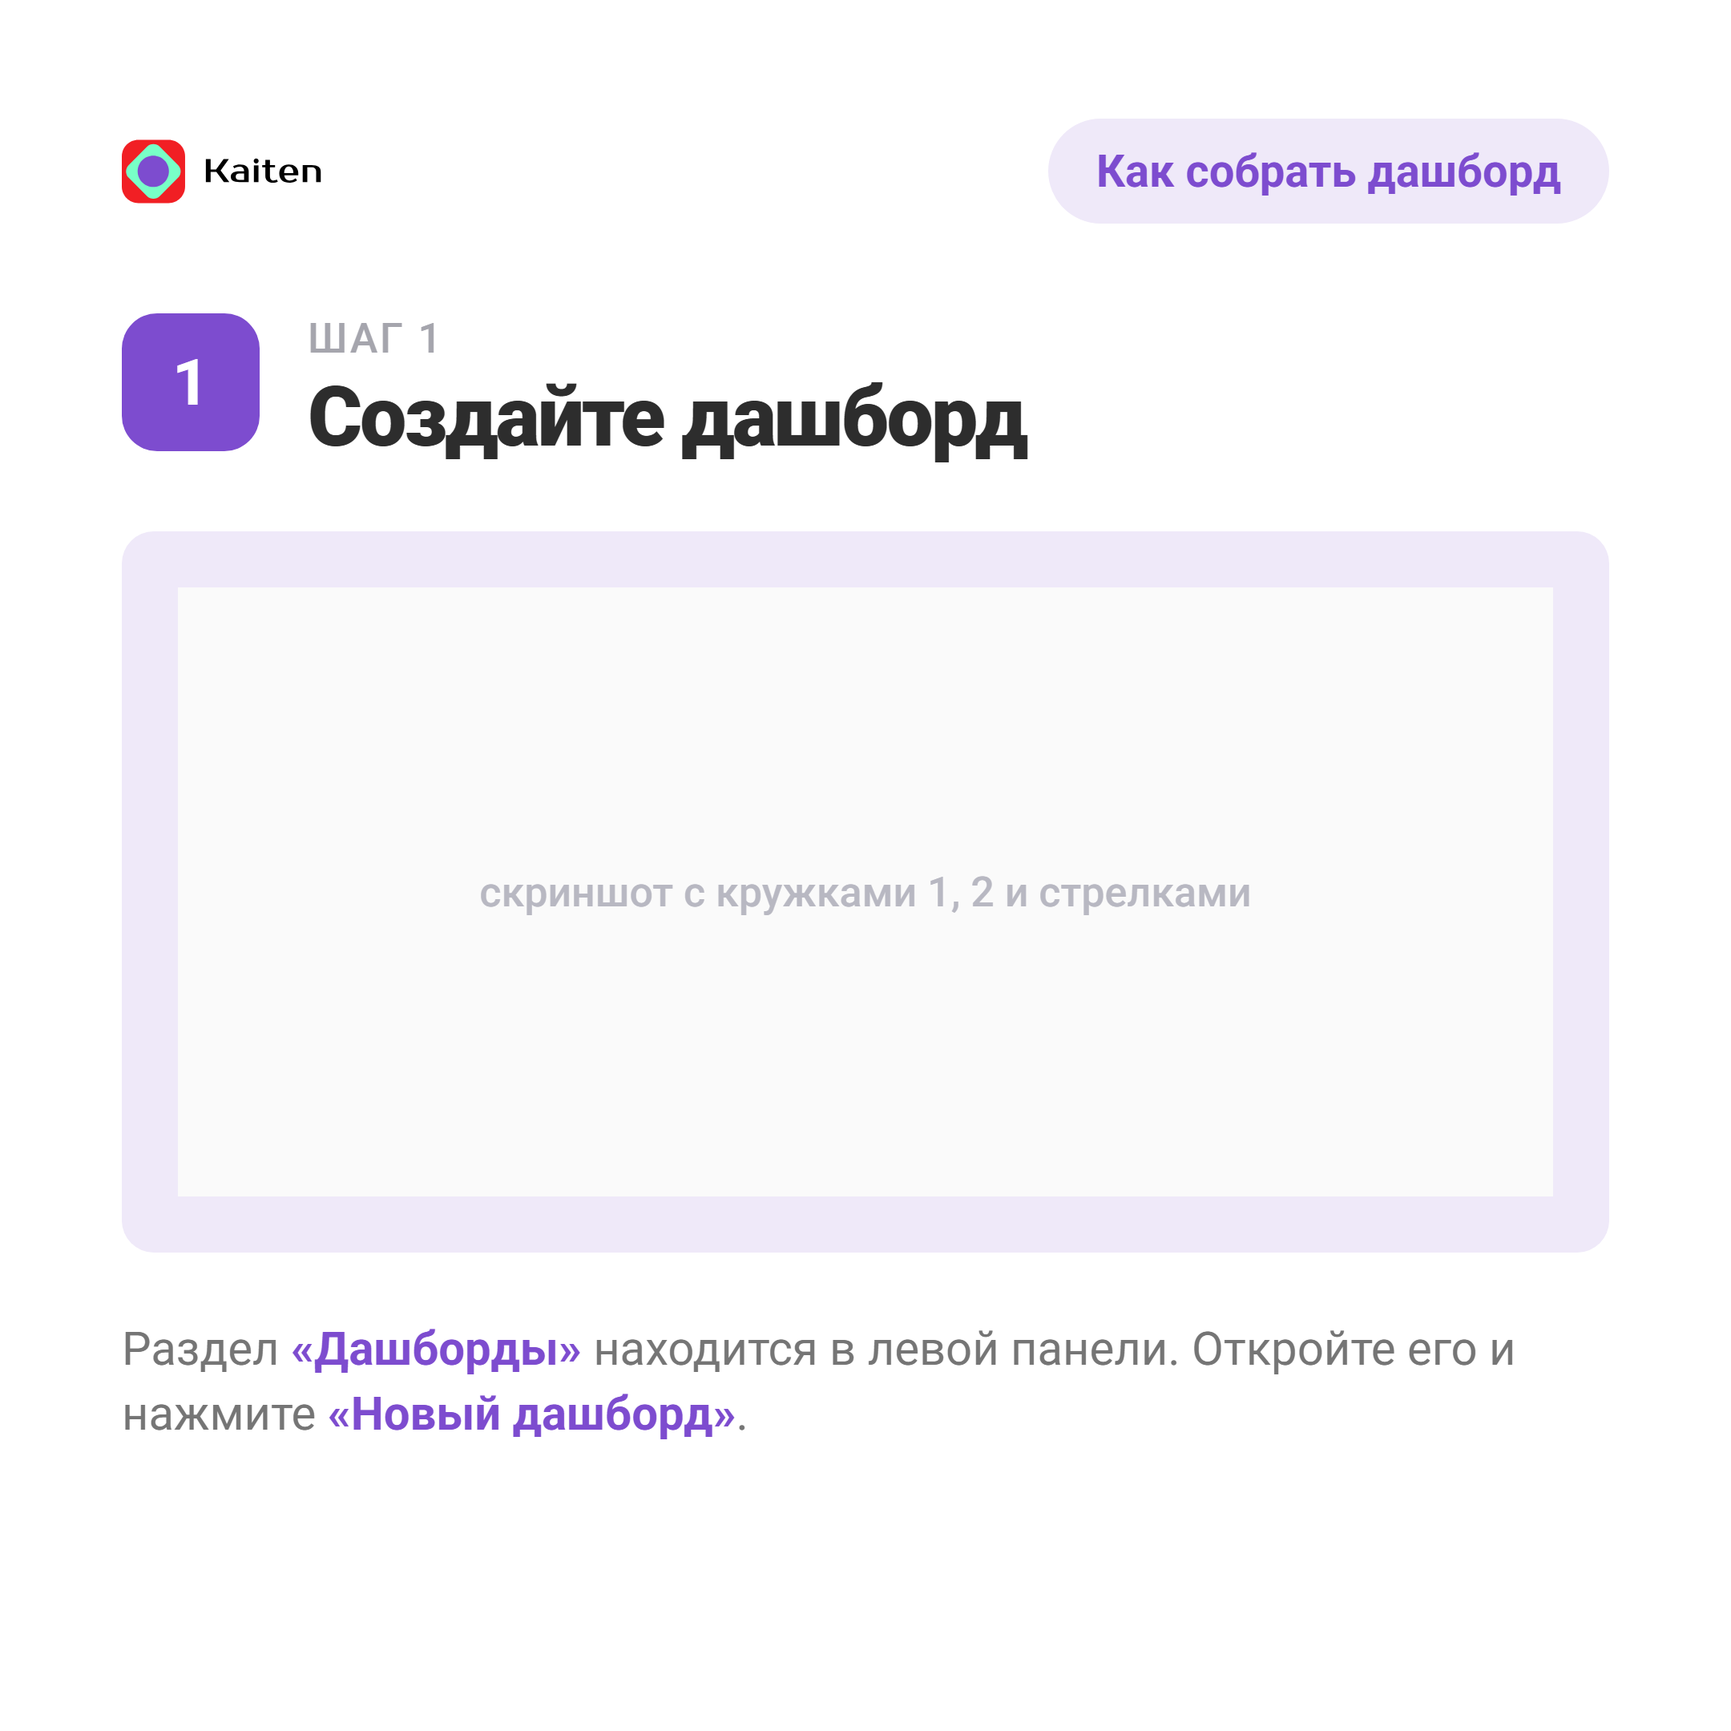
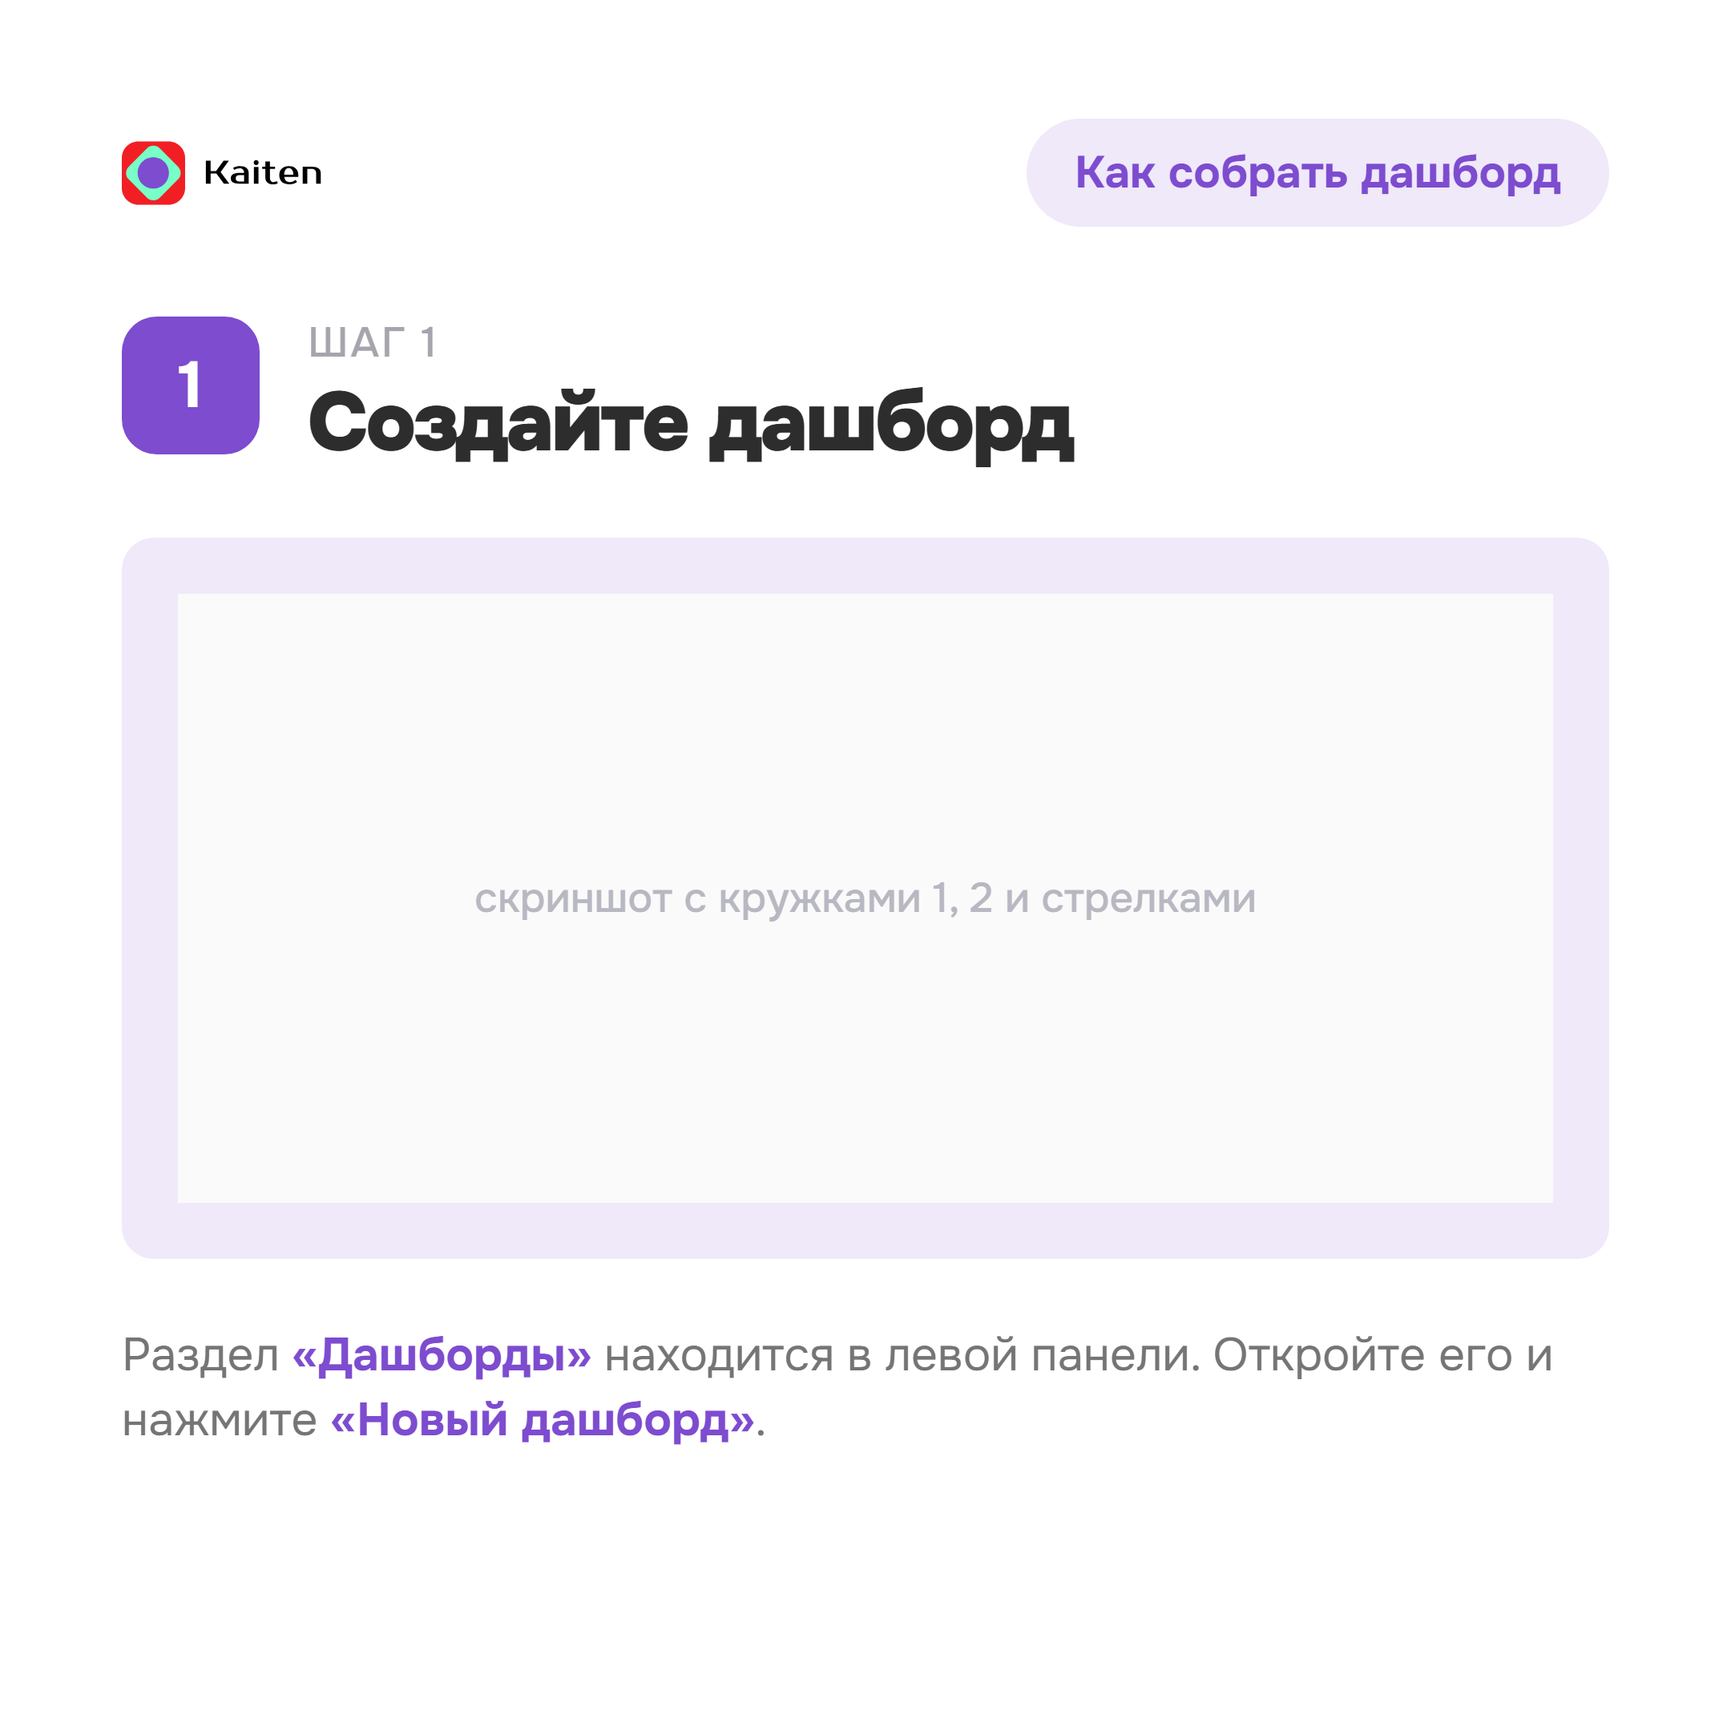
Шрифт Onest вместо Roboto и выравнивание плашек шапки
На реальных макетах канала стоит не Roboto из tokens.json, а другой гротеск.
Onest подобран как ближайший по начертанию, расхождение с дизайн-системой
записано в VISUALS отдельной пометкой: нужно подтверждение дизайн-команды.

- .datepill и .typepill получили фиксированную высоту 88px, теперь строго на одном
  уровне (раньше расходились на несколько пикселей из-за разных паддингов)
- перерендерены все 17 макетов репозитория, CSS разослан по папкам постов

diff --git a/content/posts/2026-09-01-zavershennye-iteracii/img/kaiten.css b/content/posts/2026-09-01-zavershennye-iteracii/img/kaiten.css
@@ -2,8 +2,12 @@
    Собрано по 24 реальным макетам канала: дайджест, обновление, как сделать, кейс.
    Меняешь текст в HTML, стили не трогаешь. Размер кадра - data-w/data-h на <body>.
 
-   ПРАВИЛО РЕДАКЦИИ: буквы «е» вместо «е» с точками нигде в макетах. */
-@import url("https://fonts.googleapis.com/css2?family=Roboto:wght@400;500;700;900&display=swap");
+   ПРАВИЛО РЕДАКЦИИ: буквы «е» вместо «е» с точками нигде в макетах.
+
+   ШРИФТ: Onest. tokens.json дизайн-системы называет Roboto, но на реальных макетах
+   канала (обложки вебинаров, карточки каруселей) стоит другой гротеск. Onest подобран
+   как ближайший, вопрос на подтверждение дизайн-команде. */
+@import url("https://fonts.googleapis.com/css2?family=Onest:wght@400;500;600;700;800;900&display=swap");
 
 :root {
   --violet: #7d4ccf;
@@ -21,7 +25,7 @@
 html, body { margin: 0; }
 body {
   background: var(--bg);
-  font-family: Roboto, "Helvetica Neue", Arial, system-ui, sans-serif;
+  font-family: Onest, "Helvetica Neue", Arial, system-ui, sans-serif;
   -webkit-font-smoothing: antialiased;
   color: var(--text);
 }
@@ -194,3 +198,39 @@ body {
 /* --- обложка «как сделать» и обновления ------------------------------------ */
 .tophead { display: flex; align-items: center; justify-content: space-between; }
 .tilt { margin-top: 40px; transform: rotate(-3deg) scale(1.04); transform-origin: 50% 0; }
+
+/* --- обложка вебинара и анонса события ------------------------------------- */
+.datepill {
+  display: inline-flex; align-items: center; gap: 16px;
+  height: 88px; padding: 0 34px;
+  background: var(--violet); color: #fff; border-radius: 22px;
+  font-size: 36px; font-weight: 700; letter-spacing: -.4px;
+}
+.datepill svg { width: 42px; height: 42px; flex-shrink: 0; }
+
+.typepill {
+  display: inline-flex; align-items: center;
+  height: 88px; padding: 0 48px;
+  background: #fff; color: var(--violet); border-radius: 999px;
+  font-size: 34px; font-weight: 700;
+  box-shadow: 0 10px 30px -18px rgba(31, 42, 55, .4);
+}
+
+/* дуга и зигзаг из декора обложки */
+.deco.arc { border-radius: 50%; background: #cbbcee; }
+.deco.zig {
+  width: 150px; height: 6px; background: var(--violet);
+  transform: rotate(-38deg); border-radius: 4px;
+}
+
+/* широкий скриншот, уходящий за правый край кадра */
+.shotwide {
+  position: absolute; border: 3px solid var(--violet); border-radius: 26px;
+  overflow: hidden; background: #fff;
+  box-shadow: 0 40px 80px -50px rgba(31, 42, 55, .55);
+}
+.shotwide img { display: block; width: 100%; }
+.shotwide .stub {
+  display: flex; align-items: center; justify-content: center;
+  background: #fafafa; color: #b8b8c2; font-size: 26px; font-weight: 500;
+}

diff --git a/content/posts/2026-09-03-novaya-navigaciya/img/kaiten.css b/content/posts/2026-09-03-novaya-navigaciya/img/kaiten.css
@@ -2,8 +2,12 @@
    Собрано по 24 реальным макетам канала: дайджест, обновление, как сделать, кейс.
    Меняешь текст в HTML, стили не трогаешь. Размер кадра - data-w/data-h на <body>.
 
-   ПРАВИЛО РЕДАКЦИИ: буквы «е» вместо «е» с точками нигде в макетах. */
-@import url("https://fonts.googleapis.com/css2?family=Roboto:wght@400;500;700;900&display=swap");
+   ПРАВИЛО РЕДАКЦИИ: буквы «е» вместо «е» с точками нигде в макетах.
+
+   ШРИФТ: Onest. tokens.json дизайн-системы называет Roboto, но на реальных макетах
+   канала (обложки вебинаров, карточки каруселей) стоит другой гротеск. Onest подобран
+   как ближайший, вопрос на подтверждение дизайн-команде. */
+@import url("https://fonts.googleapis.com/css2?family=Onest:wght@400;500;600;700;800;900&display=swap");
 
 :root {
   --violet: #7d4ccf;
@@ -21,7 +25,7 @@
 html, body { margin: 0; }
 body {
   background: var(--bg);
-  font-family: Roboto, "Helvetica Neue", Arial, system-ui, sans-serif;
+  font-family: Onest, "Helvetica Neue", Arial, system-ui, sans-serif;
   -webkit-font-smoothing: antialiased;
   color: var(--text);
 }
@@ -194,3 +198,39 @@ body {
 /* --- обложка «как сделать» и обновления ------------------------------------ */
 .tophead { display: flex; align-items: center; justify-content: space-between; }
 .tilt { margin-top: 40px; transform: rotate(-3deg) scale(1.04); transform-origin: 50% 0; }
+
+/* --- обложка вебинара и анонса события ------------------------------------- */
+.datepill {
+  display: inline-flex; align-items: center; gap: 16px;
+  height: 88px; padding: 0 34px;
+  background: var(--violet); color: #fff; border-radius: 22px;
+  font-size: 36px; font-weight: 700; letter-spacing: -.4px;
+}
+.datepill svg { width: 42px; height: 42px; flex-shrink: 0; }
+
+.typepill {
+  display: inline-flex; align-items: center;
+  height: 88px; padding: 0 48px;
+  background: #fff; color: var(--violet); border-radius: 999px;
+  font-size: 34px; font-weight: 700;
+  box-shadow: 0 10px 30px -18px rgba(31, 42, 55, .4);
+}
+
+/* дуга и зигзаг из декора обложки */
+.deco.arc { border-radius: 50%; background: #cbbcee; }
+.deco.zig {
+  width: 150px; height: 6px; background: var(--violet);
+  transform: rotate(-38deg); border-radius: 4px;
+}
+
+/* широкий скриншот, уходящий за правый край кадра */
+.shotwide {
+  position: absolute; border: 3px solid var(--violet); border-radius: 26px;
+  overflow: hidden; background: #fff;
+  box-shadow: 0 40px 80px -50px rgba(31, 42, 55, .55);
+}
+.shotwide img { display: block; width: 100%; }
+.shotwide .stub {
+  display: flex; align-items: center; justify-content: center;
+  background: #fafafa; color: #b8b8c2; font-size: 26px; font-weight: 500;
+}

diff --git a/content/posts/2026-09-09-vebinar-iyul-avgust/img/kaiten.css b/content/posts/2026-09-09-vebinar-iyul-avgust/img/kaiten.css
@@ -2,8 +2,12 @@
    Собрано по 24 реальным макетам канала: дайджест, обновление, как сделать, кейс.
    Меняешь текст в HTML, стили не трогаешь. Размер кадра - data-w/data-h на <body>.
 
-   ПРАВИЛО РЕДАКЦИИ: буквы «е» вместо «е» с точками нигде в макетах. */
-@import url("https://fonts.googleapis.com/css2?family=Roboto:wght@400;500;700;900&display=swap");
+   ПРАВИЛО РЕДАКЦИИ: буквы «е» вместо «е» с точками нигде в макетах.
+
+   ШРИФТ: Onest. tokens.json дизайн-системы называет Roboto, но на реальных макетах
+   канала (обложки вебинаров, карточки каруселей) стоит другой гротеск. Onest подобран
+   как ближайший, вопрос на подтверждение дизайн-команде. */
+@import url("https://fonts.googleapis.com/css2?family=Onest:wght@400;500;600;700;800;900&display=swap");
 
 :root {
   --violet: #7d4ccf;
@@ -21,7 +25,7 @@
 html, body { margin: 0; }
 body {
   background: var(--bg);
-  font-family: Roboto, "Helvetica Neue", Arial, system-ui, sans-serif;
+  font-family: Onest, "Helvetica Neue", Arial, system-ui, sans-serif;
   -webkit-font-smoothing: antialiased;
   color: var(--text);
 }
@@ -198,14 +202,17 @@ body {
 /* --- обложка вебинара и анонса события ------------------------------------- */
 .datepill {
   display: inline-flex; align-items: center; gap: 16px;
+  height: 88px; padding: 0 34px;
   background: var(--violet); color: #fff; border-radius: 22px;
-  padding: 20px 32px; font-size: 36px; font-weight: 700; letter-spacing: -.4px;
+  font-size: 36px; font-weight: 700; letter-spacing: -.4px;
 }
 .datepill svg { width: 42px; height: 42px; flex-shrink: 0; }
 
 .typepill {
+  display: inline-flex; align-items: center;
+  height: 88px; padding: 0 48px;
   background: #fff; color: var(--violet); border-radius: 999px;
-  padding: 20px 44px; font-size: 34px; font-weight: 700;
+  font-size: 34px; font-weight: 700;
   box-shadow: 0 10px 30px -18px rgba(31, 42, 55, .4);
 }
 

diff --git a/templates/img/kaiten.css b/templates/img/kaiten.css
@@ -2,8 +2,12 @@
    Собрано по 24 реальным макетам канала: дайджест, обновление, как сделать, кейс.
    Меняешь текст в HTML, стили не трогаешь. Размер кадра - data-w/data-h на <body>.
 
-   ПРАВИЛО РЕДАКЦИИ: буквы «е» вместо «е» с точками нигде в макетах. */
-@import url("https://fonts.googleapis.com/css2?family=Roboto:wght@400;500;700;900&display=swap");
+   ПРАВИЛО РЕДАКЦИИ: буквы «е» вместо «е» с точками нигде в макетах.
+
+   ШРИФТ: Onest. tokens.json дизайн-системы называет Roboto, но на реальных макетах
+   канала (обложки вебинаров, карточки каруселей) стоит другой гротеск. Onest подобран
+   как ближайший, вопрос на подтверждение дизайн-команде. */
+@import url("https://fonts.googleapis.com/css2?family=Onest:wght@400;500;600;700;800;900&display=swap");
 
 :root {
   --violet: #7d4ccf;
@@ -21,7 +25,7 @@
 html, body { margin: 0; }
 body {
   background: var(--bg);
-  font-family: Roboto, "Helvetica Neue", Arial, system-ui, sans-serif;
+  font-family: Onest, "Helvetica Neue", Arial, system-ui, sans-serif;
   -webkit-font-smoothing: antialiased;
   color: var(--text);
 }
@@ -198,14 +202,17 @@ body {
 /* --- обложка вебинара и анонса события ------------------------------------- */
 .datepill {
   display: inline-flex; align-items: center; gap: 16px;
+  height: 88px; padding: 0 34px;
   background: var(--violet); color: #fff; border-radius: 22px;
-  padding: 20px 32px; font-size: 36px; font-weight: 700; letter-spacing: -.4px;
+  font-size: 36px; font-weight: 700; letter-spacing: -.4px;
 }
 .datepill svg { width: 42px; height: 42px; flex-shrink: 0; }
 
 .typepill {
+  display: inline-flex; align-items: center;
+  height: 88px; padding: 0 48px;
   background: #fff; color: var(--violet); border-radius: 999px;
-  padding: 20px 44px; font-size: 34px; font-weight: 700;
+  font-size: 34px; font-weight: 700;
   box-shadow: 0 10px 30px -18px rgba(31, 42, 55, .4);
 }
 

diff --git a/docs/VISUALS.md b/docs/VISUALS.md
@@ -37,7 +37,7 @@
 | `neutral-600` | `#757575` | подпись под скриншотом, счётчик «1 / 4», надпись «ШАГ N» |
 | `neutral-300` | `#e0e0e0` | рамка карточки скриншота |
 | `neutral-000` | `#ffffff` | фон карточки скриншота |
-| шрифт | Roboto | всё, начертания Regular / Medium / SemiBold |
+| шрифт | **Onest** ⚠ | всё. В `tokens.json` записан Roboto, но на реальных макетах канала стоит другой гротеск. Onest подобран как ближайший, **нужно подтверждение дизайн-команды** |
 | радиусы | 8-32 px | пилюли `full`, карточки `2xl`-`4xl` |
 
 **Жёлтый акцент обложки дайджеста** это `orange-100 #ffa100` из токенов.
